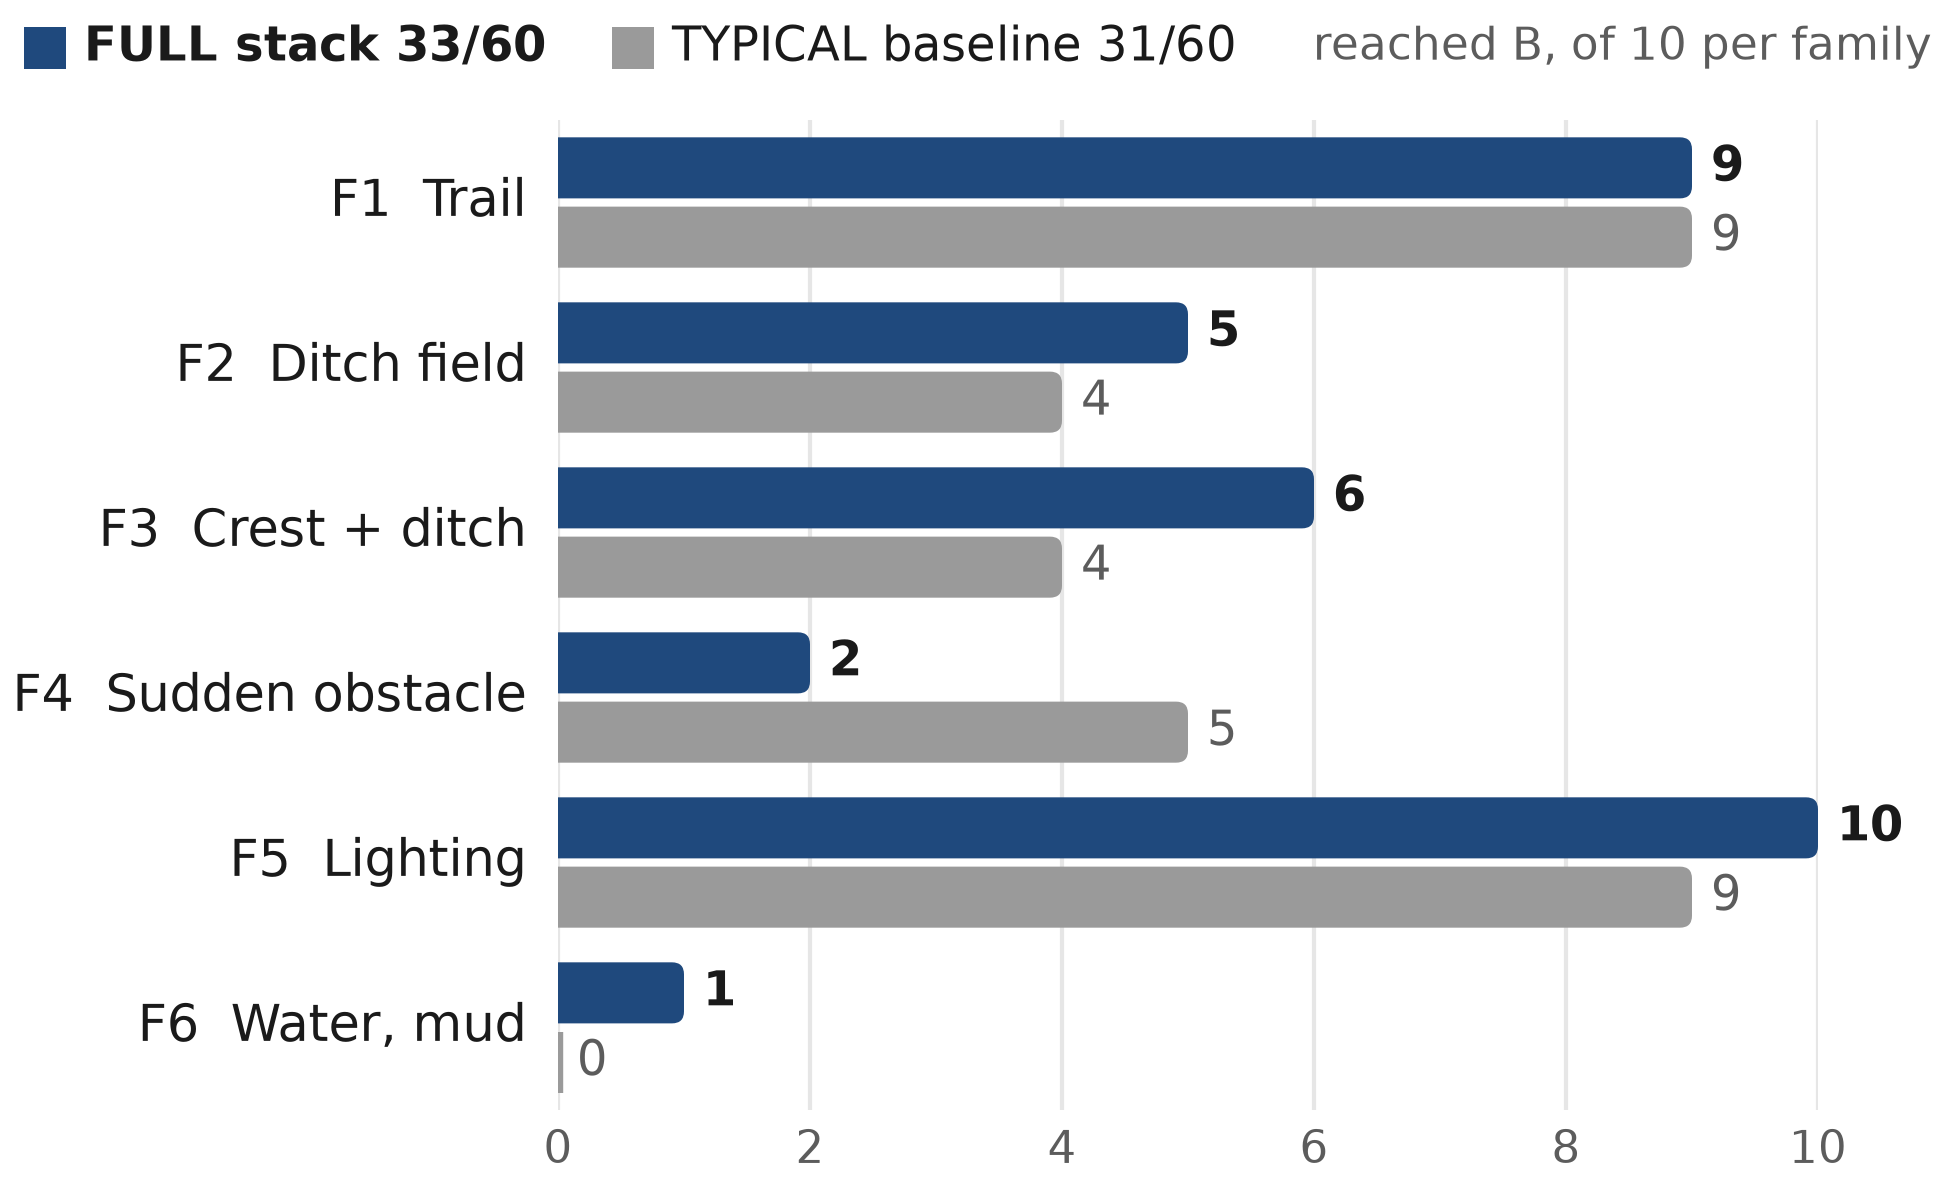
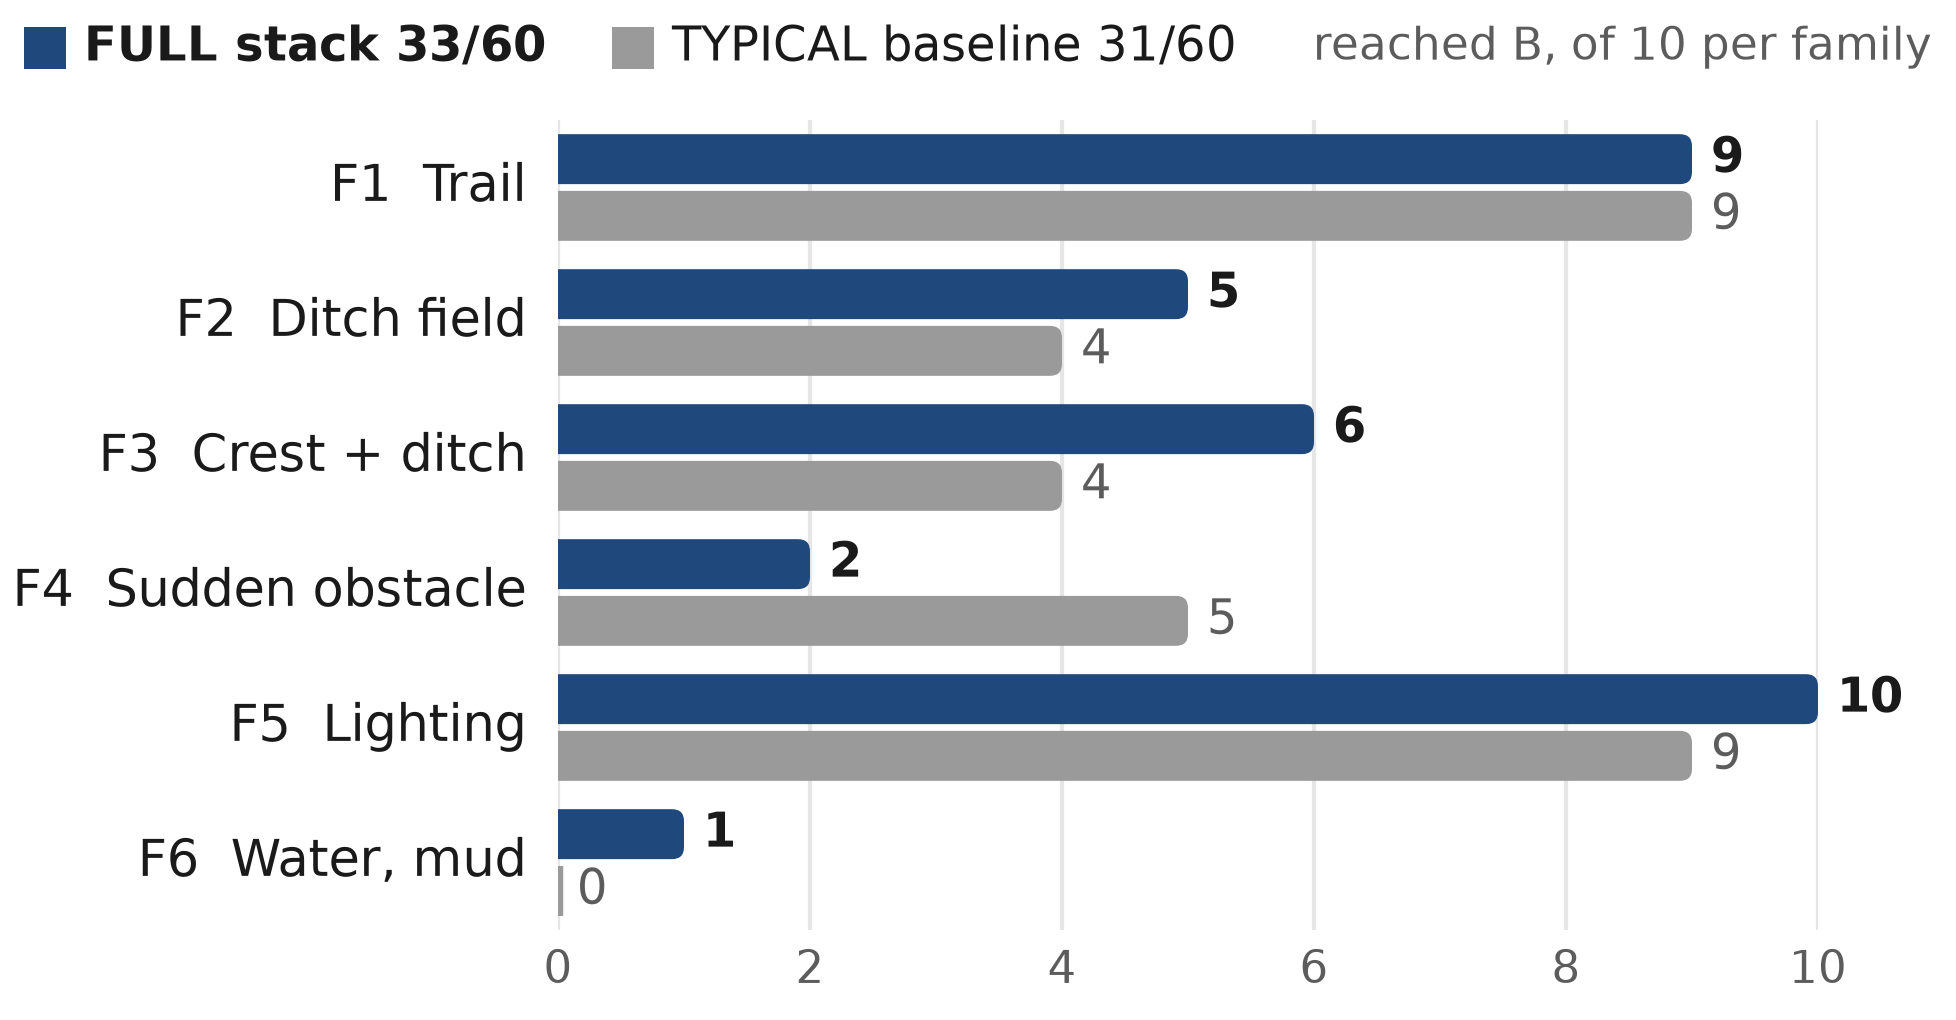
Fig. 4 slot chart: 652x340 so the caption can carry the regressions
Claude-Session: https://claude.ai/code/session_01WyKCCAJ7MKHNqea3W8Cc6h

diff --git a/deck_assets/final/src/closed_loop.py b/deck_assets/final/src/closed_loop.py
@@ -408,8 +408,8 @@ def fig_by_family(t: dict) -> dict:
     return {"figure": "eval_by_family", "size": size, "numbers": drawn}
 
 
-# ---- figure 1b: the same counts sized for the deck's 652 x 400 px right-hand slot -----------
-SLOT_W_PX, SLOT_H_PX = 652, 400  # slide pixels (1920 x 1080 slide)
+# ---- figure 1b: the same counts sized for the deck's 652 x 340 px right-hand slot -----------
+SLOT_W_PX, SLOT_H_PX = 652, 340  # slide pixels (1920 x 1080 slide); short enough to leave room for a 5-line caption
 SLOT_SCALE = 3  # output pixels per slide pixel
 SLOT_DPI = 100 * SLOT_SCALE
 SLOT_PT_PER_PX = SLOT_SCALE * 72 / SLOT_DPI  # font size in pt that renders 1 slide px tall
@@ -422,7 +422,7 @@ def fig_by_family_slot(t: dict) -> dict:
     """Bars only, every label >= 15 slide px; the F2+F3 table, F4 note and provenance go in the slide caption."""
     px = SLOT_PT_PER_PX
     fig = plt.figure(figsize=(SLOT_W_PX / 100, SLOT_H_PX / 100), dpi=SLOT_DPI)
-    left, right, bottom, top = 186, 606, 30, 360  # plot box in slide px (x from left, y from bottom)
+    left, right, bottom, top = 186, 606, 30, SLOT_H_PX - 40  # plot box in slide px (x from left, y from bottom)
     ax = fig.add_axes([left / SLOT_W_PX, bottom / SLOT_H_PX, (right - left) / SLOT_W_PX, (top - bottom) / SLOT_H_PX])
     n_fam = len(FAMILIES)
     bar_h, gap = 0.37, 0.05
